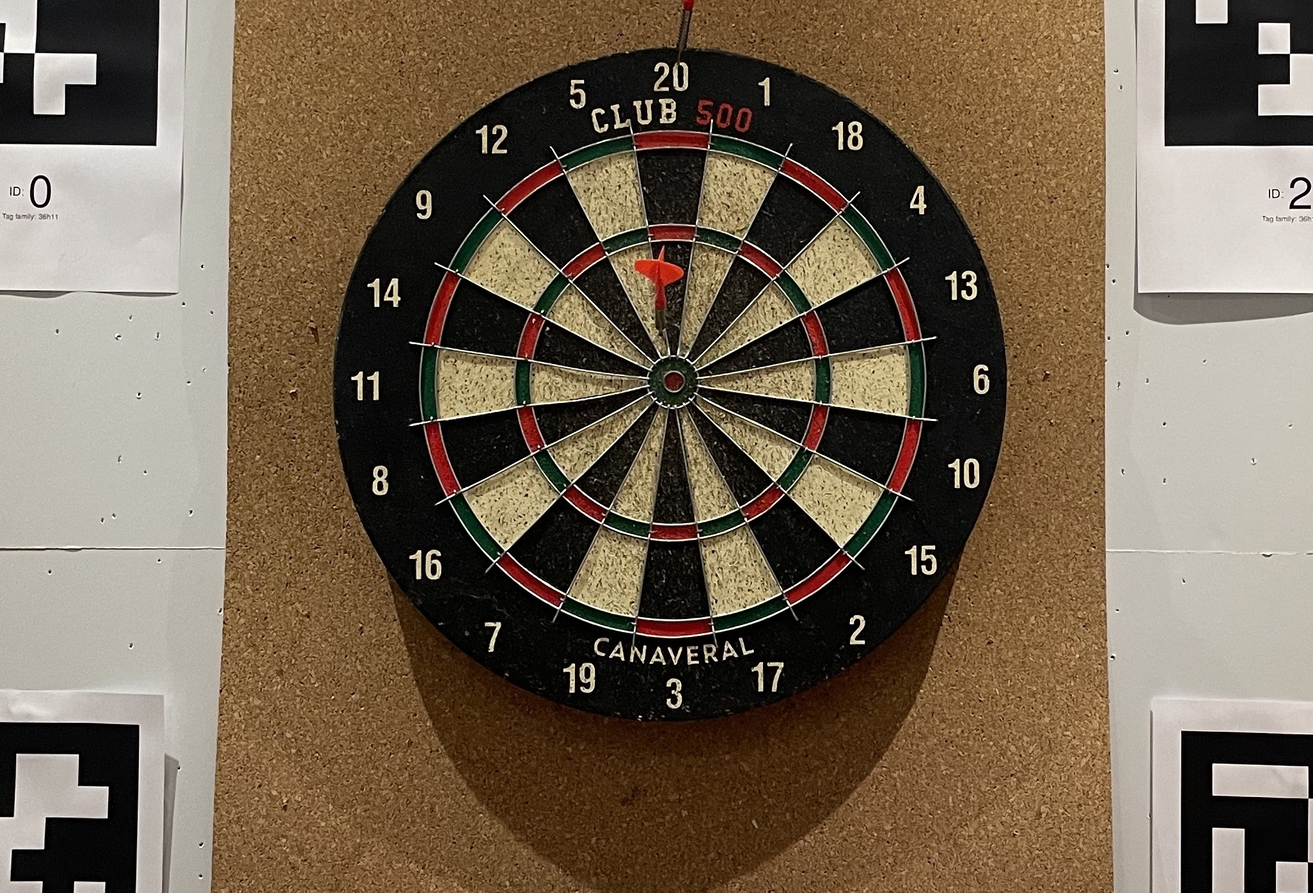
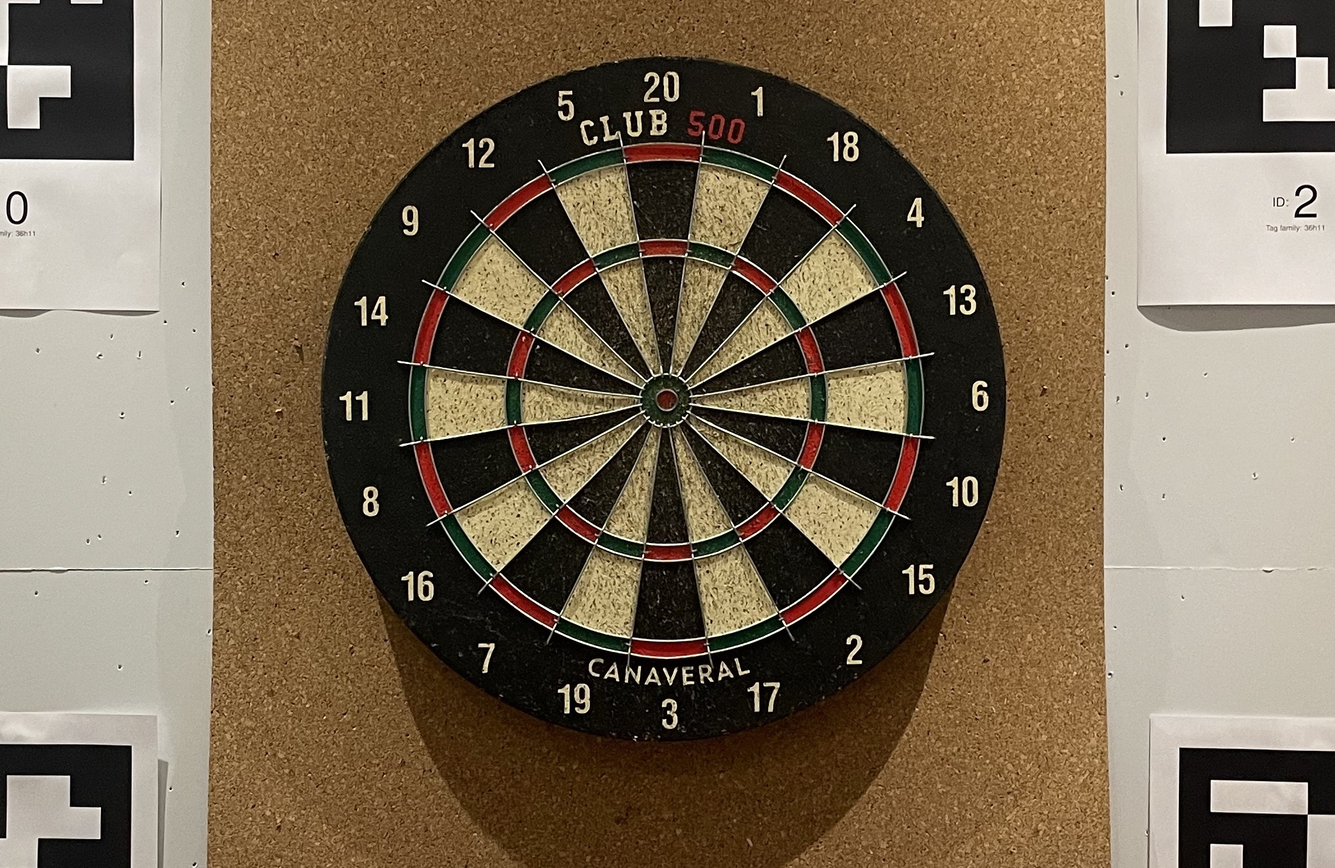
fix a bug in torch to show past spotlight positions

diff --git a/app.py b/app.py
@@ -131,6 +131,7 @@ width_ref_img =shape_ref_img[1]
 
 def gen_mapped_gaze(camera_id, mode = 'simple'):
     last_gaze = None
+    last_torch_mask = None
     while True:
         tags = []
         try:
@@ -174,14 +175,17 @@ def gen_mapped_gaze(camera_id, mode = 'simple'):
                     thickness=15)
 
                 if (mode == 'torch'):
-                    mask = np.zeros_like(reference_img)
-                    mask = cv2.circle(mask, # torch light
+                    new_mask = np.zeros_like(reference_img)
+                    new_mask = cv2.circle(new_mask, # torch light
                     (int(gaze_data['x']), int(gaze_data['y']) ),
                      100, 
                      (255,255,255),
                     -1)
-
-                    reference_img = cv2.bitwise_and(reference_img, mask)
+                    if last_torch_mask is not None:
+                        last_torch_mask = cv2.bitwise_or(new_mask, last_torch_mask)
+                    else:
+                        last_torch_mask = new_mask
+                    reference_img = cv2.bitwise_and(reference_img, last_torch_mask)
 
 
                 params = [cv.IMWRITE_JPEG_QUALITY, 50,  cv.IMWRITE_JPEG_OPTIMIZE, 1]
@@ -199,13 +203,7 @@ def gen_mapped_gaze(camera_id, mode = 'simple'):
                               thickness=15)
 
                 if(mode == 'torch'):
-                    mask = np.zeros_like(reference_img)
-                    if last_gaze is not None:
-                        mask = cv.circle(mask,  # torch light
-                                          (int(last_gaze['x']), int(last_gaze['y'])),
-                                          100,
-                                          (255, 255, 255),
-                                          -1)
+                    mask = last_torch_mask if last_torch_mask is not None else np.zeros_like(reference_img)
                     reference_img = cv2.bitwise_and(reference_img, mask)
 
                 params = [cv.IMWRITE_JPEG_QUALITY, 50,  cv.IMWRITE_JPEG_OPTIMIZE, 1]
